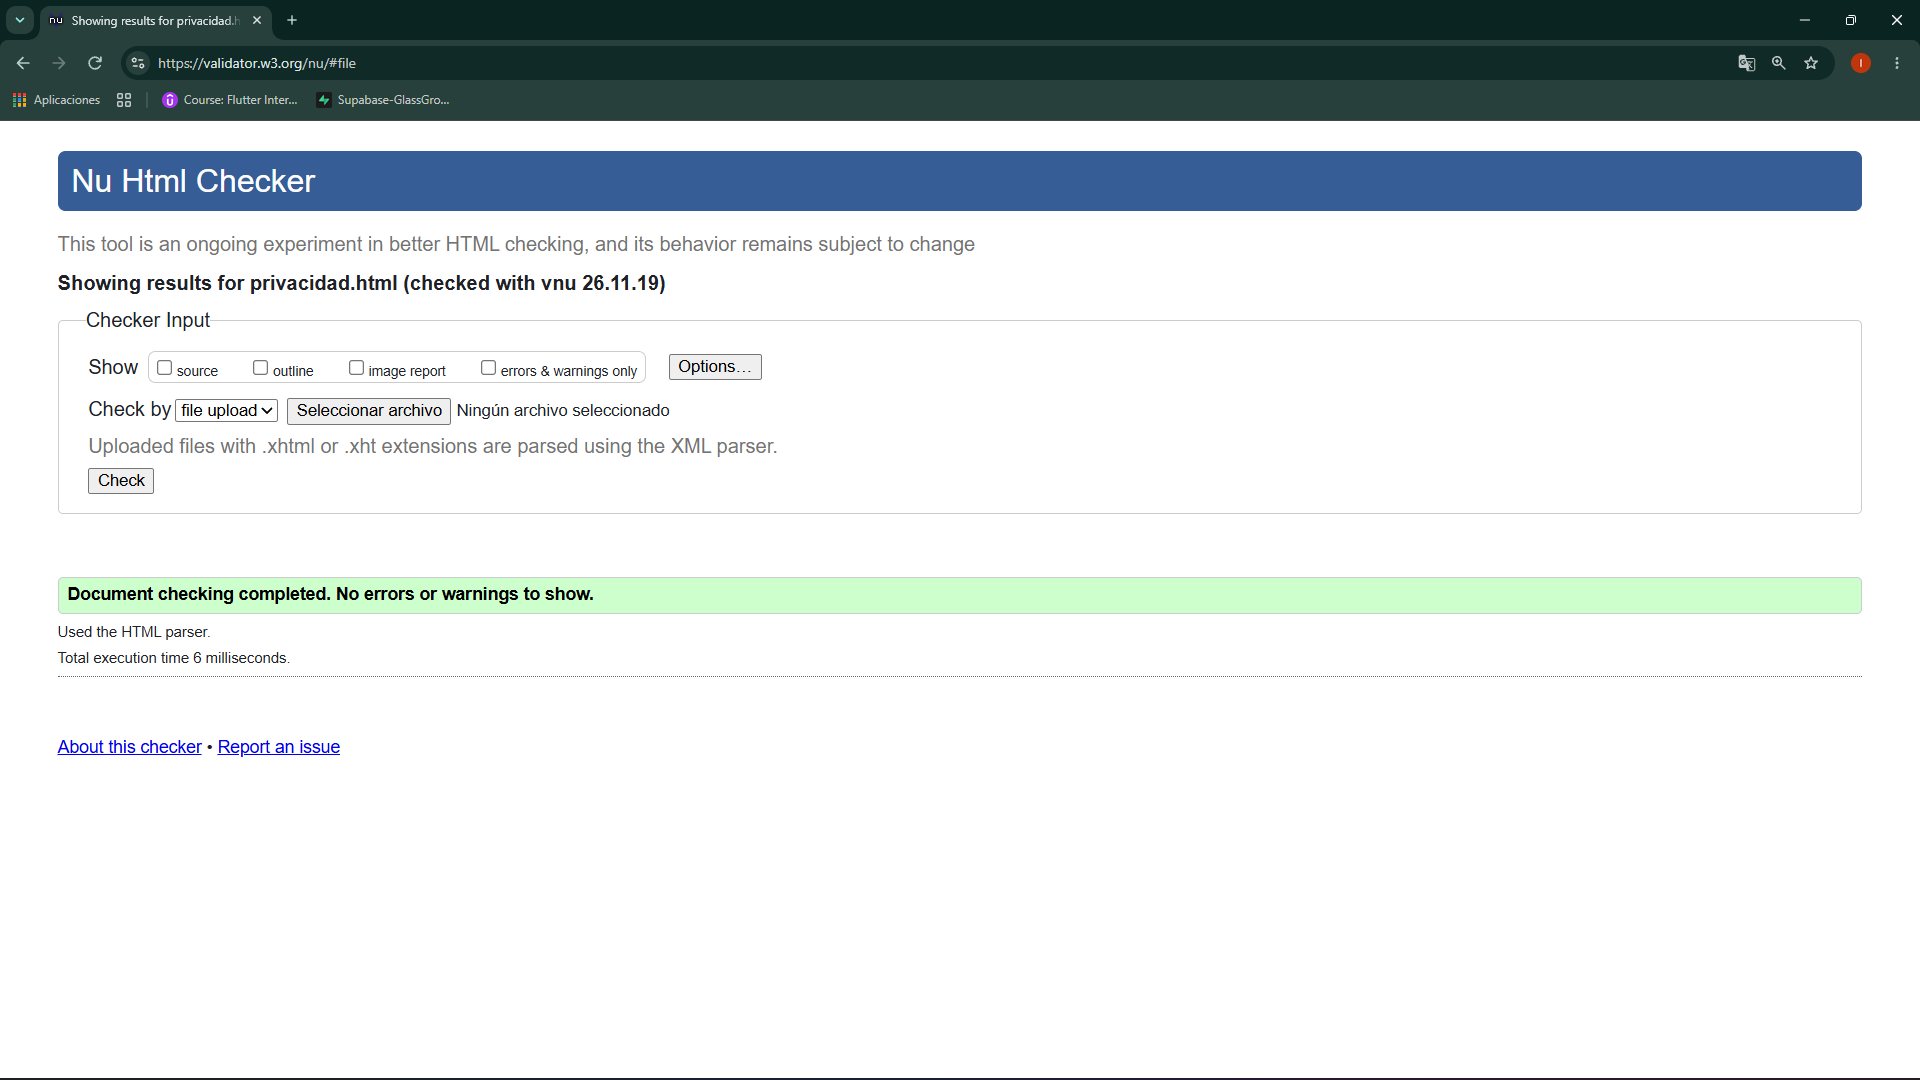
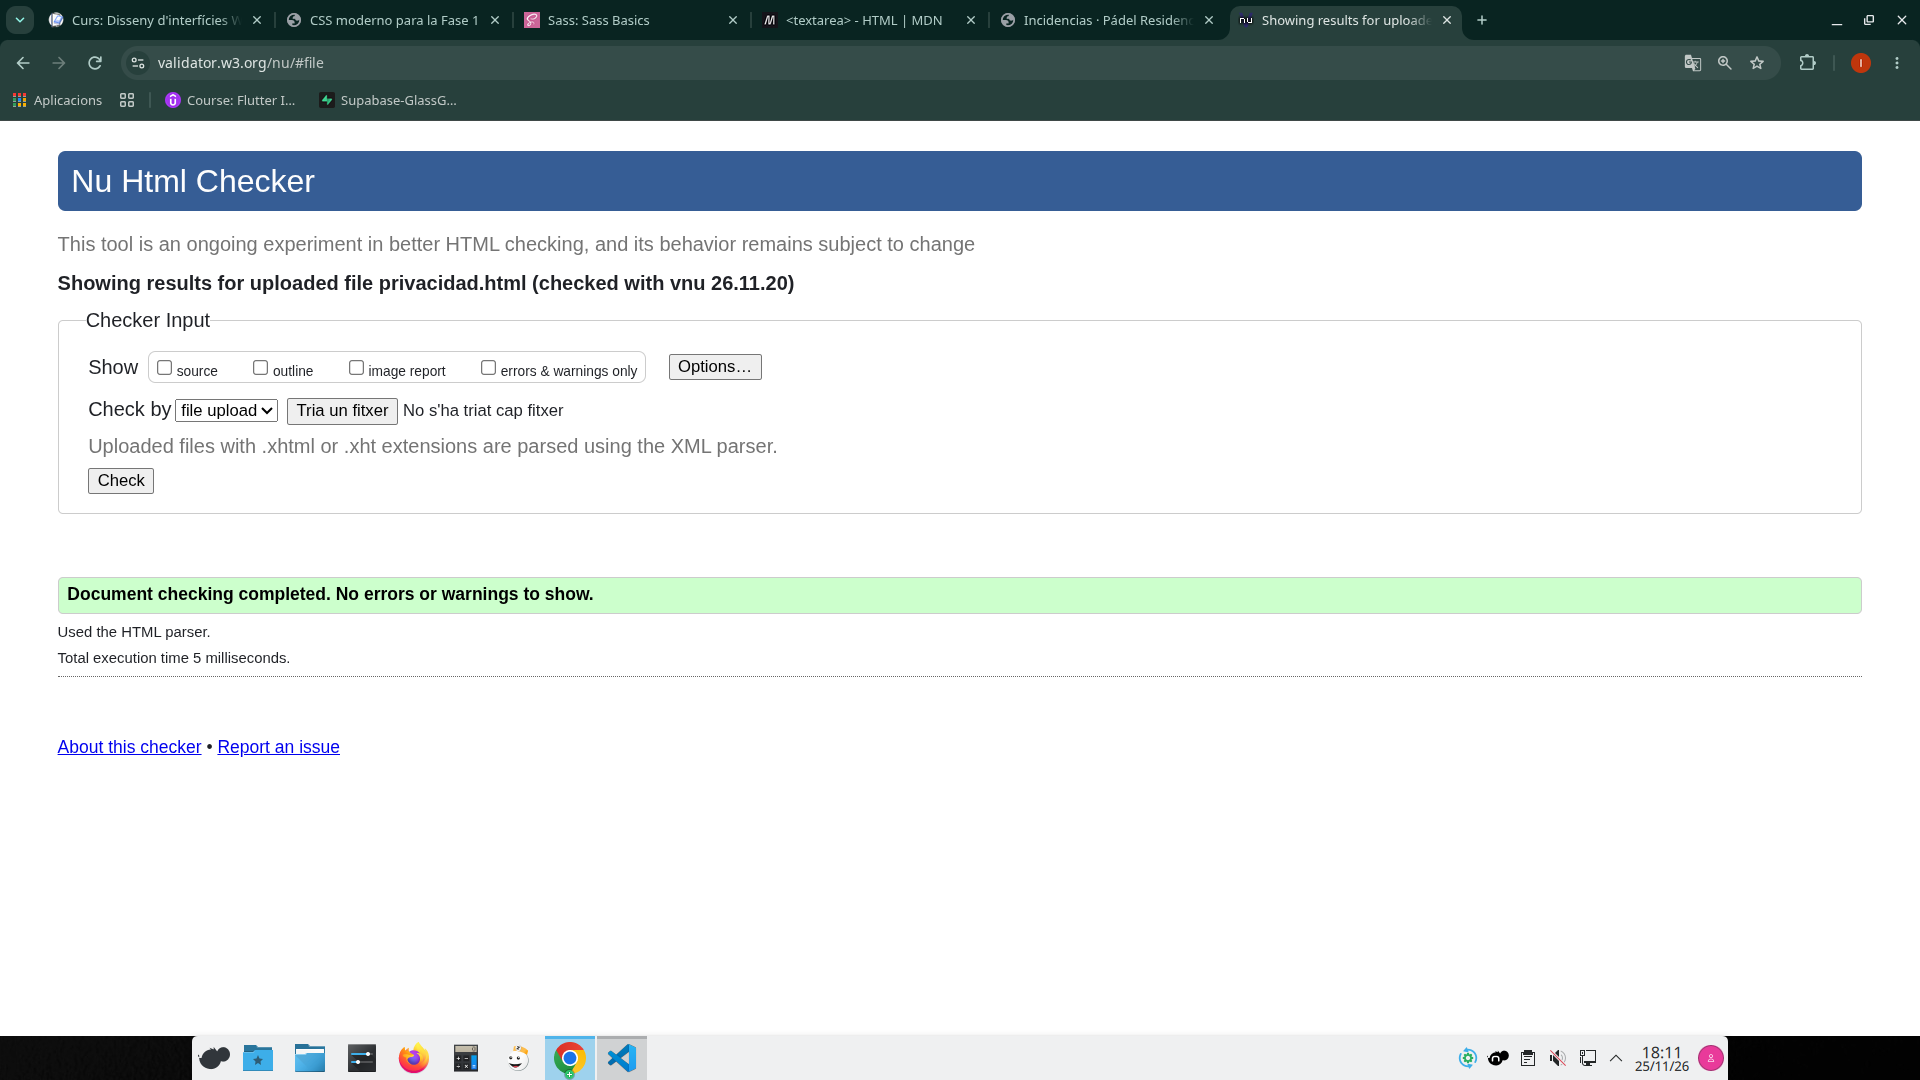
CHECK: página de incidencias

diff --git a/incidencias.html b/incidencias.html
@@ -1,0 +1,105 @@
+<!doctype html>
+<html lang="es">
+
+<head>
+  <meta charset="utf-8">
+  <meta name="viewport" content="width=device-width, initial-scale=1">
+  <title>Incidencias · Pádel Residencial Los Sauces</title>
+  <link rel="stylesheet" href="css/estilos.css">
+</head>
+
+<body>
+  <a class="salto" href="#contenido">Saltar al contenido</a>
+
+  <header class="cabecera">
+    <div class="cabecera__interior contenedor">
+      <a class="cabecera__marca" href="index.html">Pádel Residencial Los Sauces</a>
+      <nav class="menu" aria-label="Principal">
+        <ul class="menu__lista">
+          <li><a class="menu__enlace" href="index.html">Turnos</a></li>
+          <li><a class="menu__enlace" href="mis-turnos.html">Mis turnos</a></li>
+          <li><a class="menu__enlace" href="incidencias.html" aria-current="page">Incidencias</a></li>
+          <li><a class="menu__enlace" href="normas.html">Normas</a></li>
+        </ul>
+      </nav>
+    </div>
+  </header>
+
+  <main id="contenido" class="contenedor">
+    <h1>Comunicar la incidencia</h1>
+    <form action="incidencias.html" method="post">
+      <label for="fecha">Fecha:</label>
+      <input type="date" id="fecha" name="fecha" required>
+
+      <fieldset>
+        <legend>Tipo de incidencia:</legend>
+        <label>
+          <input type="radio" name="incidencia" value="" checked required>
+          Estado de la pista
+        </label>
+        <label>
+          <input type="radio" name="incidencia" value="" required>
+          Iluminación o acceso
+        </label>
+        <label>
+          <input type="radio" name="incidencia" value="" required>
+          Reserva o pago
+        </label>
+        <label>
+          <input type="radio" name="incidencia" value="" required>
+          Queja de convivencia
+        </label>
+      </fieldset>
+
+      <fieldset>
+        <legend>Pista afectada:</legend>
+        <label>
+          <input type="text" name="incidencia" placeholder="ej. Pista central" required>
+        </label>
+      </fieldset>
+
+      <fieldset>
+        <legend>Descripción:</legend>
+        <label for="descripcion">
+          <textarea name="descripcion" id="descripcion"></textarea>
+        </label>
+      </fieldset>
+
+      <fieldset>
+        <legend>Correo:</legend>
+        <label>
+          <input type="email" name="email" required>
+        </label>
+      </fieldset>
+
+      <fiel>
+        <label>
+          <input type="checkbox" name="acepta-normas" required>
+          Acepto las <a href="privacidad.html">normas de privacidad</a>.
+        </label>
+      </fiel>
+
+      <button class="boton" type="submit">Enviar</button>
+    </form>
+  </main>
+
+  <footer class="pie">
+    <div class="pie__interior contenedor">
+      <address class="pie__datos">
+        Comunidad de Propietarios Residencial Los Sauces · CIF H-00000010<br>
+        Calle de Los Sauces, 30 · 00000 Localidad Ficticia<br>
+        <a href="mailto:administracion@lossauces.example">administracion@lossauces.example</a>
+      </address>
+      <nav aria-label="Legal">
+        <ul class="pie__enlaces">
+          <li><a href="aviso-legal.html">Aviso legal</a></li>
+          <li><a href="privacidad.html">Privacidad</a></li>
+          <li><a href="normas.html">Normas de uso</a></li>
+        </ul>
+      </nav>
+      <p class="pie__nota"><small>Proyecto académico ficticio · DIW 0615 · 2.º DAW</small></p>
+    </div>
+  </footer>
+</body>
+
+</html>

diff --git a/privacidad.html b/privacidad.html
@@ -18,6 +18,7 @@
         <ul class="menu__lista">
           <li><a class="menu__enlace" href="index.html">Turnos</a></li>
           <li><a class="menu__enlace" href="mis-turnos.html">Mis turnos</a></li>
+          <li><a class="menu__enlace" href="incidencias.html">Incidencias</a></li>
           <li><a class="menu__enlace" href="normas.html">Normas</a></li>
         </ul>
       </nav>
@@ -37,6 +38,7 @@
           <li><a href="#conservacion">Conservación</a></li>
           <li><a href="#destinatarios">Destinatarios</a></li>
           <li><a href="#derechos">Derechos del interesado</a></li>
+          <li><a href="#incidencias">Incidencias</a></li>
         </ol>
       </nav>
 
@@ -117,6 +119,20 @@
           rectificación, supresión, oposición, limitación del tratamiento
           y portabilidad de sus datos mediante una solicitud dirigida
           a la comunidad a través del correo
+          administracion@lossauces.example.
+        </p>
+        <p class="hueco">
+          También tienen derecho a presentar una reclamación ante
+          la Agencia Española de Protección de Datos (AEPD) si
+          consideran que el tratamiento de sus datos no cumple
+          la normativa vigente.
+        </p>
+      </section>
+      <section aria-labelledby="incidencias">
+        <h2 id="incidencias">Incidencias</h2>
+        <p class="hueco">
+          Los propietarios pueden ejercer su derecho a presentar una queja formal a través
+          de las incidencias. 
           administracion@lossauces.example.
         </p>
         <p class="hueco">

diff --git a/index.html b/index.html
@@ -18,6 +18,7 @@
         <ul class="menu__lista">
           <li><a class="menu__enlace" href="index.html" aria-current="page">Turnos</a></li>
           <li><a class="menu__enlace" href="mis-turnos.html">Mis turnos</a></li>
+          <li><a class="menu__enlace" href="incidencias.html">Incidencias</a></li>
           <li><a class="menu__enlace" href="normas.html">Normas</a></li>
         </ul>
       </nav>

diff --git a/mis-turnos.html b/mis-turnos.html
@@ -18,6 +18,7 @@
         <ul class="menu__lista">
           <li><a class="menu__enlace" href="index.html">Turnos</a></li>
           <li><a class="menu__enlace" href="mis-turnos.html" aria-current="page">Mis turnos</a></li>
+          <li><a class="menu__enlace" href="incidencias.html">Incidencias</a></li>
           <li><a class="menu__enlace" href="normas.html">Normas</a></li>
         </ul>
       </nav>

diff --git a/normas.html b/normas.html
@@ -18,6 +18,7 @@
         <ul class="menu__lista">
           <li><a class="menu__enlace" href="index.html">Turnos</a></li>
           <li><a class="menu__enlace" href="mis-turnos.html">Mis turnos</a></li>
+          <li><a class="menu__enlace" href="incidencias.html">Incidencias</a></li>
           <li><a class="menu__enlace" href="normas.html" aria-current="page">Normas</a></li>
         </ul>
       </nav>

diff --git a/aviso-legal.html b/aviso-legal.html
@@ -18,6 +18,7 @@
         <ul class="menu__lista">
           <li><a class="menu__enlace" href="index.html">Turnos</a></li>
           <li><a class="menu__enlace" href="mis-turnos.html">Mis turnos</a></li>
+          <li><a class="menu__enlace" href="incidencias.html">Incidencias</a></li>
           <li><a class="menu__enlace" href="normas.html">Normas</a></li>
         </ul>
       </nav>

diff --git a/reserva.html b/reserva.html
@@ -18,6 +18,7 @@
         <ul class="menu__lista">
           <li><a class="menu__enlace" href="index.html">Turnos</a></li>
           <li><a class="menu__enlace" href="mis-turnos.html">Mis turnos</a></li>
+          <li><a class="menu__enlace" href="incidencias.html">Incidencias</a></li>
           <li><a class="menu__enlace" href="normas.html">Normas</a></li>
         </ul>
       </nav>

diff --git a/scss/base/_elementos.scss b/scss/base/_elementos.scss
@@ -124,7 +124,8 @@
   }
 
   input:not(:where([type="radio"], [type="checkbox"])),
-  select {
+  select,
+  textarea {
     @include objetivo-tactil;
 
     inline-size: 100%;
